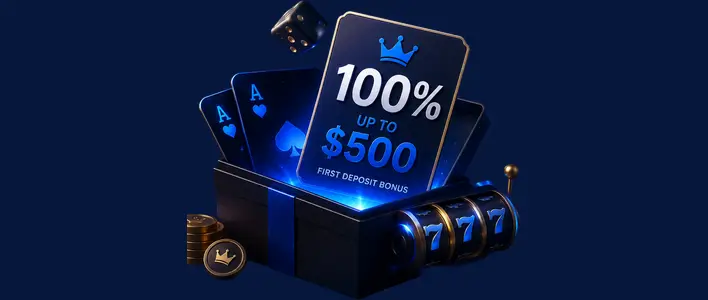
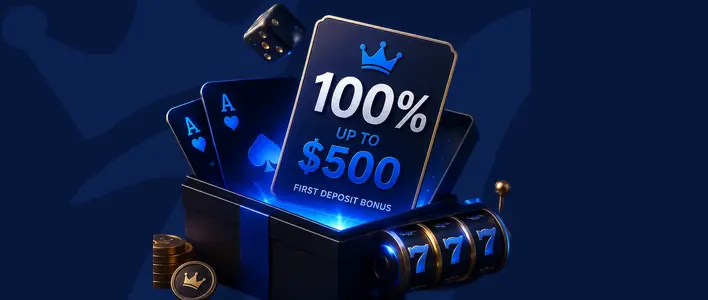
WarWin: обновление превью

Changed region(s): [[0.2175, 0.0, 0.7458, 1.0]]

diff --git a/index.html b/index.html
@@ -2597,25 +2597,39 @@ body.dp-open .wallet__deposit, body.dp-open .wallet__deposit::after { animation:
    ═══════════════════════════════════════════════════════════════════ */
 .view--bonus { gap: 20px; }
 .bn__head { display: flex; flex-direction: column; gap: 16px; }
-/* Заголовок и промокод в одну строку: поле прижато к правому краю колонки */
-.bn__head-row { display: flex; align-items: center; justify-content: space-between; gap: 24px; }
-.bn__promo { display: flex; gap: 10px; flex: none; }
-.bn__promo-input { box-sizing: border-box; width: 218px; height: 44px; padding: 0 16px;
-                   border: 1px solid #1f2742; border-radius: 10px; background: #222a45;
-                   color: var(--white); font-family: 'Work Sans', sans-serif;
-                   font-size: 14px; line-height: 20px; outline: none; }
-.bn__promo-input::placeholder { color: var(--dp-label); }
-.bn__promo-input:focus { border-color: rgba(0, 193, 255, .6); }
-.bn__promo-btn { display: grid; place-items: center; width: 80px; height: 44px; flex: none;
-                 border: 0; border-radius: 10px; cursor: pointer; background: #00c1ff; color: #000;
-                 font-family: 'Work Sans', sans-serif; font-weight: 700; font-size: 14px;
-                 line-height: 20px; transition: background .15s ease; }
-.bn__promo-btn:hover { background: #33cfff; }
-.bn__promo-note { margin: 0; font-family: 'Work Sans', sans-serif; font-size: 14px;
-                  line-height: 20px; color: var(--dp-label); }
-.bn__promo-note[hidden] { display: none; }
-.bn__promo-note.is-bad { color: #e5484d; }
-.bn__promo-note.is-ok { color: #3ddc66; }
+
+/* ── полоса промокода: первый блок вкладки Available ──
+   Поле объясняет себя само — значок, заголовок и строка о том, что произойдёт.
+   В шапке оно этого не делало и читалось как случайный ввод. */
+.bnpromo { grid-column: 1 / -1; box-sizing: border-box;
+           display: grid; grid-template-columns: auto minmax(0, 1fr) auto;
+           align-items: center; gap: 8px 16px; padding: 18px 20px;
+           border-radius: 16px; background: var(--card, #181e3b);
+           border: 1px solid rgba(255, 255, 255, .05); }
+.bnpromo__ico { display: grid; place-items: center; width: 44px; height: 44px; flex: none;
+                border-radius: 12px; background: #282e49; }
+.bnpromo__ico::after { content: ''; width: 24px; height: 24px; background: var(--muted);
+  -webkit-mask: var(--ico-gift) center / contain no-repeat;
+          mask: var(--ico-gift) center / contain no-repeat; }
+.bnpromo__text { display: flex; flex-direction: column; gap: 2px; min-width: 0; }
+.bnpromo__text b { font-family: 'Work Sans', sans-serif; font-weight: 600;
+                   font-size: 16px; line-height: 24px; color: var(--white); }
+.bnpromo__text span { font-family: 'Work Sans', sans-serif; font-size: 14px;
+                      line-height: 20px; color: var(--dp-label); }
+.bnpromo__form { display: flex; gap: 10px; flex: none; }
+.bnpromo__input { box-sizing: border-box; width: 218px; height: 44px; padding: 0 16px;
+                  border: 1px solid #1f2742; border-radius: 10px; background: #222a45;
+                  color: var(--white); font-family: 'Work Sans', sans-serif;
+                  font-size: 14px; line-height: 20px; outline: none; }
+.bnpromo__input::placeholder { color: var(--dp-label); }
+.bnpromo__input:focus { border-color: rgba(0, 193, 255, .6); }
+/* ответ занимает всю ширину под строкой, поэтому поля не прыгают */
+.bnpromo__note { grid-column: 1 / -1; margin: 0; padding-left: 60px;
+                 font-family: 'Work Sans', sans-serif; font-size: 14px;
+                 line-height: 20px; color: var(--dp-label); }
+.bnpromo__note[hidden] { display: none; }
+.bnpromo__note.is-bad { color: #e5484d; }
+.bnpromo__note.is-ok { color: #3ddc66; }
 .bn__h1 { margin: 0; font-family: 'Cora', 'Instrument Sans', sans-serif; font-weight: 700;
           font-size: 32px; line-height: 40px; color: var(--white); }
 .bn__chips { display: flex; gap: 8px; flex-wrap: wrap; }
@@ -2627,6 +2641,8 @@ body.dp-open .wallet__deposit, body.dp-open .wallet__deposit::after { animation:
 .bn__chip:hover { background: #30354e; color: var(--white); }
 .bn__chip.is-active { background: #00c1ff; color: #000; }
 .bn__chip.is-active:hover { background: #33cfff; color: #000; }
+.bn__count { margin-left: 8px; font-variant-numeric: tabular-nums; opacity: .65; }
+.bn__count:empty { display: none; }
 
 /* ── кнопки страницы ── */
 .bn__btn { display: inline-grid; place-items: center; height: 44px; padding: 0 20px; flex: none;
@@ -2647,6 +2663,10 @@ body.dp-open .wallet__deposit, body.dp-open .wallet__deposit::after { animation:
             font-family: 'Work Sans', sans-serif; font-weight: 600; font-size: 14px;
             line-height: 20px; color: var(--dp-label); transition: color .15s ease; }
 .bn__link:hover { color: var(--white); text-decoration: underline; }
+/* Фокус с клавиатуры видно на всех органах управления страницы */
+.bn__btn:focus-visible, .bn__chip:focus-visible, .bn__link:focus-visible,
+.bnpromo__input:focus-visible, .bn__list:focus-visible {
+  outline: 2px solid #00c1ff; outline-offset: 2px; }
 
 /* ── гость: 1471:13193, карточка 1103x282 ── */
 .bn__guest { box-sizing: border-box; display: flex; flex-direction: column; align-items: center;
@@ -2686,6 +2706,10 @@ body.dp-open .wallet__deposit, body.dp-open .wallet__deposit::after { animation:
           /* WebKit не обрезает содержимое по радиусу без явного clip-path */
           clip-path: inset(0 round 16px); }
 .bncard[hidden] { display: none; }
+/* Карточка отзывается на курсор: кант светлеет, сама приподнимается */
+.bncard { transition: border-color .15s ease, transform .15s ease; }
+.bncard:hover { border-color: rgba(255, 255, 255, .12); transform: translateY(-2px); }
+@media (prefers-reduced-motion: reduce) { .bncard, .bncard:hover { transform: none; } }
 .bncard__art { display: block; width: 100%; height: 150px; flex: none;
                object-fit: cover; background: #07173d; }
 .bncard__body { flex: 1 0 auto; display: flex; flex-direction: column; gap: 12px; padding: 20px; }
@@ -2761,9 +2785,10 @@ body.dp-open .wallet__deposit, body.dp-open .wallet__deposit::after { animation:
 @media (max-width: 767px) {
   .bn__h1 { font-size: 26px; line-height: 32px; }
   .bn__list { grid-template-columns: 1fr; gap: 12px; }
-  .bn__head-row { flex-direction: column; align-items: stretch; gap: 14px; }
-  .bn__promo { width: 100%; }
-  .bn__promo-input { flex: 1 1 auto; width: auto; }
+  .bnpromo { grid-template-columns: auto minmax(0, 1fr); padding: 16px; }
+  .bnpromo__form { grid-column: 1 / -1; }
+  .bnpromo__input { flex: 1 1 auto; width: auto; }
+  .bnpromo__note { padding-left: 0; }
   .bn__guest { padding: 36px 20px; }
   .bn__guest-btns { width: 100%; }
   .bn__guest-btns .bn__btn { flex: 1 1 0; padding: 0; }
@@ -5841,18 +5866,15 @@ body.dp-open .wallet__deposit { box-shadow: 0 0 0 2px rgba(205, 250, 80, .35),
            со своим пустым состоянием. -->
       <div class="view view--bonus" id="view-bonuses" hidden data-node-id="1471:13191">
         <div class="bn__head">
-          <div class="bn__head-row">
-            <h1 class="bn__h1">Bonuses</h1>
-            <div class="bn__promo">
-              <input class="bn__promo-input" type="text" placeholder="Promo code" aria-label="Promo code" autocomplete="off">
-              <button class="bn__promo-btn" type="button" data-bn-apply>Apply</button>
-            </div>
-          </div>
-          <p class="bn__promo-note" hidden role="status"></p>
+          <h1 class="bn__h1">Bonuses</h1>
+          <!-- Счётчик у вкладки отвечает на первый вопрос: ждёт ли что-то -->
           <div class="bn__chips" role="tablist">
-            <button class="bn__chip is-active" type="button" role="tab" aria-selected="true" data-bn="available">Available</button>
-            <button class="bn__chip" type="button" role="tab" aria-selected="false" data-bn="active">Active</button>
-            <button class="bn__chip" type="button" role="tab" aria-selected="false" data-bn="history">History</button>
+            <button class="bn__chip is-active" type="button" role="tab" aria-selected="true"
+                    aria-controls="bn-available" data-bn="available">Available<span class="bn__count"></span></button>
+            <button class="bn__chip" type="button" role="tab" aria-selected="false"
+                    aria-controls="bn-active" data-bn="active">Active<span class="bn__count"></span></button>
+            <button class="bn__chip" type="button" role="tab" aria-selected="false"
+                    aria-controls="bn-history" data-bn="history">History<span class="bn__count"></span></button>
           </div>
         </div>
 
@@ -5868,7 +5890,21 @@ body.dp-open .wallet__deposit { box-shadow: 0 0 0 2px rgba(205, 250, 80, .35),
         </div>
 
         <div class="bn__body">
-          <div class="bn__list" data-bnset="available">
+          <div class="bn__list" id="bn-available" role="tabpanel" tabindex="0" data-bnset="available">
+            <!-- Поле стояло в шапке без подписи, и было непонятно, что это и
+                 на что влияет. Здесь оно рядом со списком, на который действует. -->
+            <div class="bnpromo">
+              <span class="bnpromo__ico" aria-hidden="true"></span>
+              <div class="bnpromo__text">
+                <b>Have a promo code?</b>
+                <span>Enter it here &mdash; the bonus is added to this list right away.</span>
+              </div>
+              <div class="bnpromo__form">
+                <input class="bnpromo__input" type="text" placeholder="Promo code" aria-label="Promo code" autocomplete="off">
+                <button class="bn__btn bn__btn--primary" type="button" data-bn-apply>Apply</button>
+              </div>
+              <p class="bnpromo__note" hidden role="status"></p>
+            </div>
             <article class="bncard" data-key="deposit">
               <img loading="lazy" decoding="async" class="bncard__art" src="a/152e20205a.webp" alt="" width="354" height="150">
               <div class="bncard__body">
@@ -5918,8 +5954,8 @@ body.dp-open .wallet__deposit { box-shadow: 0 0 0 2px rgba(205, 250, 80, .35),
             </div>
           </div>
 
-          <div class="bn__list" data-bnset="active" hidden>
-            <section class="bnact">
+          <div class="bn__list" id="bn-active" role="tabpanel" tabindex="0" data-bnset="active" hidden>
+            <section class="bnact" hidden>
               <div class="bnact__head">
                 <div class="bnact__title">
                   <h2>Welcome Free Spins</h2>
@@ -5954,7 +5990,7 @@ body.dp-open .wallet__deposit { box-shadow: 0 0 0 2px rgba(205, 250, 80, .35),
             </div>
           </div>
 
-          <div class="bn__list" data-bnset="history" hidden>
+          <div class="bn__list" id="bn-history" role="tabpanel" tabindex="0" data-bnset="history" hidden>
             <div class="bnhist">
               <div class="bnhist__row bnhist__row--head">
                 <span>Bonus</span><span>Reward</span><span>Date</span><span>Status</span>
@@ -9728,12 +9764,15 @@ body.dp-open .wallet__deposit { box-shadow: 0 0 0 2px rgba(205, 250, 80, .35),
         bnChipsBox.hidden = guest;
         bnBody.hidden = guest;
         bnLists.forEach(function (l) {
-          var has = l.querySelector('.bncard:not([hidden]), .bnact:not([hidden]),' +
-                                    '.bnhist__row:not(.bnhist__row--head):not([hidden])');
+          var items = l.querySelectorAll('.bncard:not([hidden]), .bnact:not([hidden]),' +
+                                         '.bnhist__row:not(.bnhist__row--head):not([hidden])');
           var e = l.querySelector('.bn__empty');
-          if (e) e.hidden = !!has;
+          if (e) e.hidden = !!items.length;
           var box = l.querySelector('.bnhist');
-          if (box) box.hidden = !has;
+          if (box) box.hidden = !items.length;
+          /* Счётчик на вкладке: сколько бонусов там сейчас лежит */
+          var chip = bnView.querySelector('[data-bn="' + l.dataset.bnset + '"] .bn__count');
+          if (chip) chip.textContent = items.length ? String(items.length) : '';
         });
       };
 
@@ -9772,11 +9811,11 @@ body.dp-open .wallet__deposit { box-shadow: 0 0 0 2px rgba(205, 250, 80, .35),
         /* Промокод: пустое поле и неизвестный код — разные ответы, иначе
            кнопка выглядит сломанной */
         if (t.hasAttribute('data-bn-apply')) {
-          var inp = bnView.querySelector('.bn__promo-input');
-          var note = bnView.querySelector('.bn__promo-note');
+          var inp = bnView.querySelector('.bnpromo__input');
+          var note = bnView.querySelector('.bnpromo__note');
           var code = inp.value.trim().toUpperCase();
           note.hidden = false;
-          note.className = 'bn__promo-note';
+          note.className = 'bnpromo__note';
           if (!code) {
             note.classList.add('is-bad');
             note.textContent = 'Enter a promo code.';
@@ -9796,14 +9835,25 @@ body.dp-open .wallet__deposit { box-shadow: 0 0 0 2px rgba(205, 250, 80, .35),
         }
         if (t.dataset.bnGo === 'available') { bnShow('available'); return; }
 
-        /* Активация: бонус уходит в отыгрыш, кнопка больше не зовёт */
+        /* Получение: бонус действительно переезжает во вкладку Active.
+           Карточка уходит из списка доступных, отыгрыш забирает её имя и срок —
+           иначе непонятно, куда делся бонус и что теперь отыгрывается. */
         if (t.hasAttribute('data-bn-act')) {
           var c = t.closest('.bncard');
-          t.disabled = true;
-          t.textContent = 'Activated';
-          var tag = c.querySelector('.bn__tag');
-          tag.textContent = 'In progress';
-          tag.classList.add('bn__tag--live');
+          var act = bnView.querySelector('.bnact');
+          var tags = c.querySelectorAll('.bn__tag');
+          act.querySelector('h2').textContent = c.querySelector('h2').textContent;
+          act.querySelector('.bnact__title span').textContent =
+            'Activated today \u00B7 ' + (tags[1] ? tags[1].textContent : 'see terms');
+          var actTerms = act.querySelector('[data-bn-terms]');
+          if (actTerms) actTerms.dataset.bnTerms = c.dataset.key;
+          act.dataset.from = c.dataset.key;
+          act.hidden = false;
+          bnView.querySelector('.bnact__ask').hidden = true;
+          bnView.querySelector('.bnact__foot').hidden = false;
+          c.hidden = true;
+          bnSync();
+          bnShow('active');
           return;
         }
 
@@ -9819,11 +9869,24 @@ body.dp-open .wallet__deposit { box-shadow: 0 0 0 2px rgba(205, 250, 80, .35),
           return;
         }
         if (t.hasAttribute('data-bn-drop')) {
-          var act = bnView.querySelector('.bnact');
-          act.hidden = true;
+          var dropped = bnView.querySelector('.bnact');
+          /* Отменённый бонус возвращается в доступные — иначе он исчезал совсем */
+          var back = dropped.dataset.from &&
+                     bnView.querySelector('.bncard[data-key="' + dropped.dataset.from + '"]');
+          if (back) {
+            back.hidden = false;
+            var bb = back.querySelector('[data-bn-act]');
+            var bt = back.querySelector('.bn__tag');
+            bb.disabled = false;
+            bb.textContent = bb.dataset.base || 'Receive';
+            bt.textContent = bt.dataset.base || bt.textContent;
+            bt.classList.remove('bn__tag--live');
+          }
+          dropped.hidden = true;
           bnView.querySelector('.bnact__ask').hidden = true;
           bnView.querySelector('.bnact__foot').hidden = false;
           bnSync();
+          bnShow('available');
         }
       });
 
@@ -9835,6 +9898,11 @@ body.dp-open .wallet__deposit { box-shadow: 0 0 0 2px rgba(205, 250, 80, .35),
         if (tag) tag.dataset.base = tag.textContent;
         if (act) act.dataset.base = act.textContent;
       });
+      var bnActCard = bnView.querySelector('.bnact');
+      if (bnActCard) {
+        bnActCard.dataset.baseTitle = bnActCard.querySelector('h2').textContent;
+        bnActCard.dataset.baseWhen = bnActCard.querySelector('.bnact__title span').textContent;
+      }
 
       bnSync();
     }
@@ -10132,7 +10200,14 @@ body.dp-open .wallet__deposit { box-shadow: 0 0 0 2px rgba(205, 250, 80, .35),
           tag.classList.remove('bn__tag--live');
         });
         var act = bnView.querySelector('.bnact');
-        act.hidden = empty;
+        /* Отыгрыш показываем только в своём состоянии: иначе один и тот же
+           бонус висел бы разом и в доступных, и в отыгрыше */
+        act.hidden = what !== 'active';
+        /* Карточку отыгрыша тоже возвращаем к исходной: её мог переписать
+           Receive, и следующее состояние показало бы чужой бонус */
+        act.querySelector('h2').textContent = act.dataset.baseTitle;
+        act.querySelector('.bnact__title span').textContent = act.dataset.baseWhen;
+        act.removeAttribute('data-from');
         bnView.querySelector('.bnact__ask').hidden = true;
         bnView.querySelector('.bnact__foot').hidden = false;
         bnView.querySelectorAll('.bnhist__row:not(.bnhist__row--head)').forEach(function (r) {
